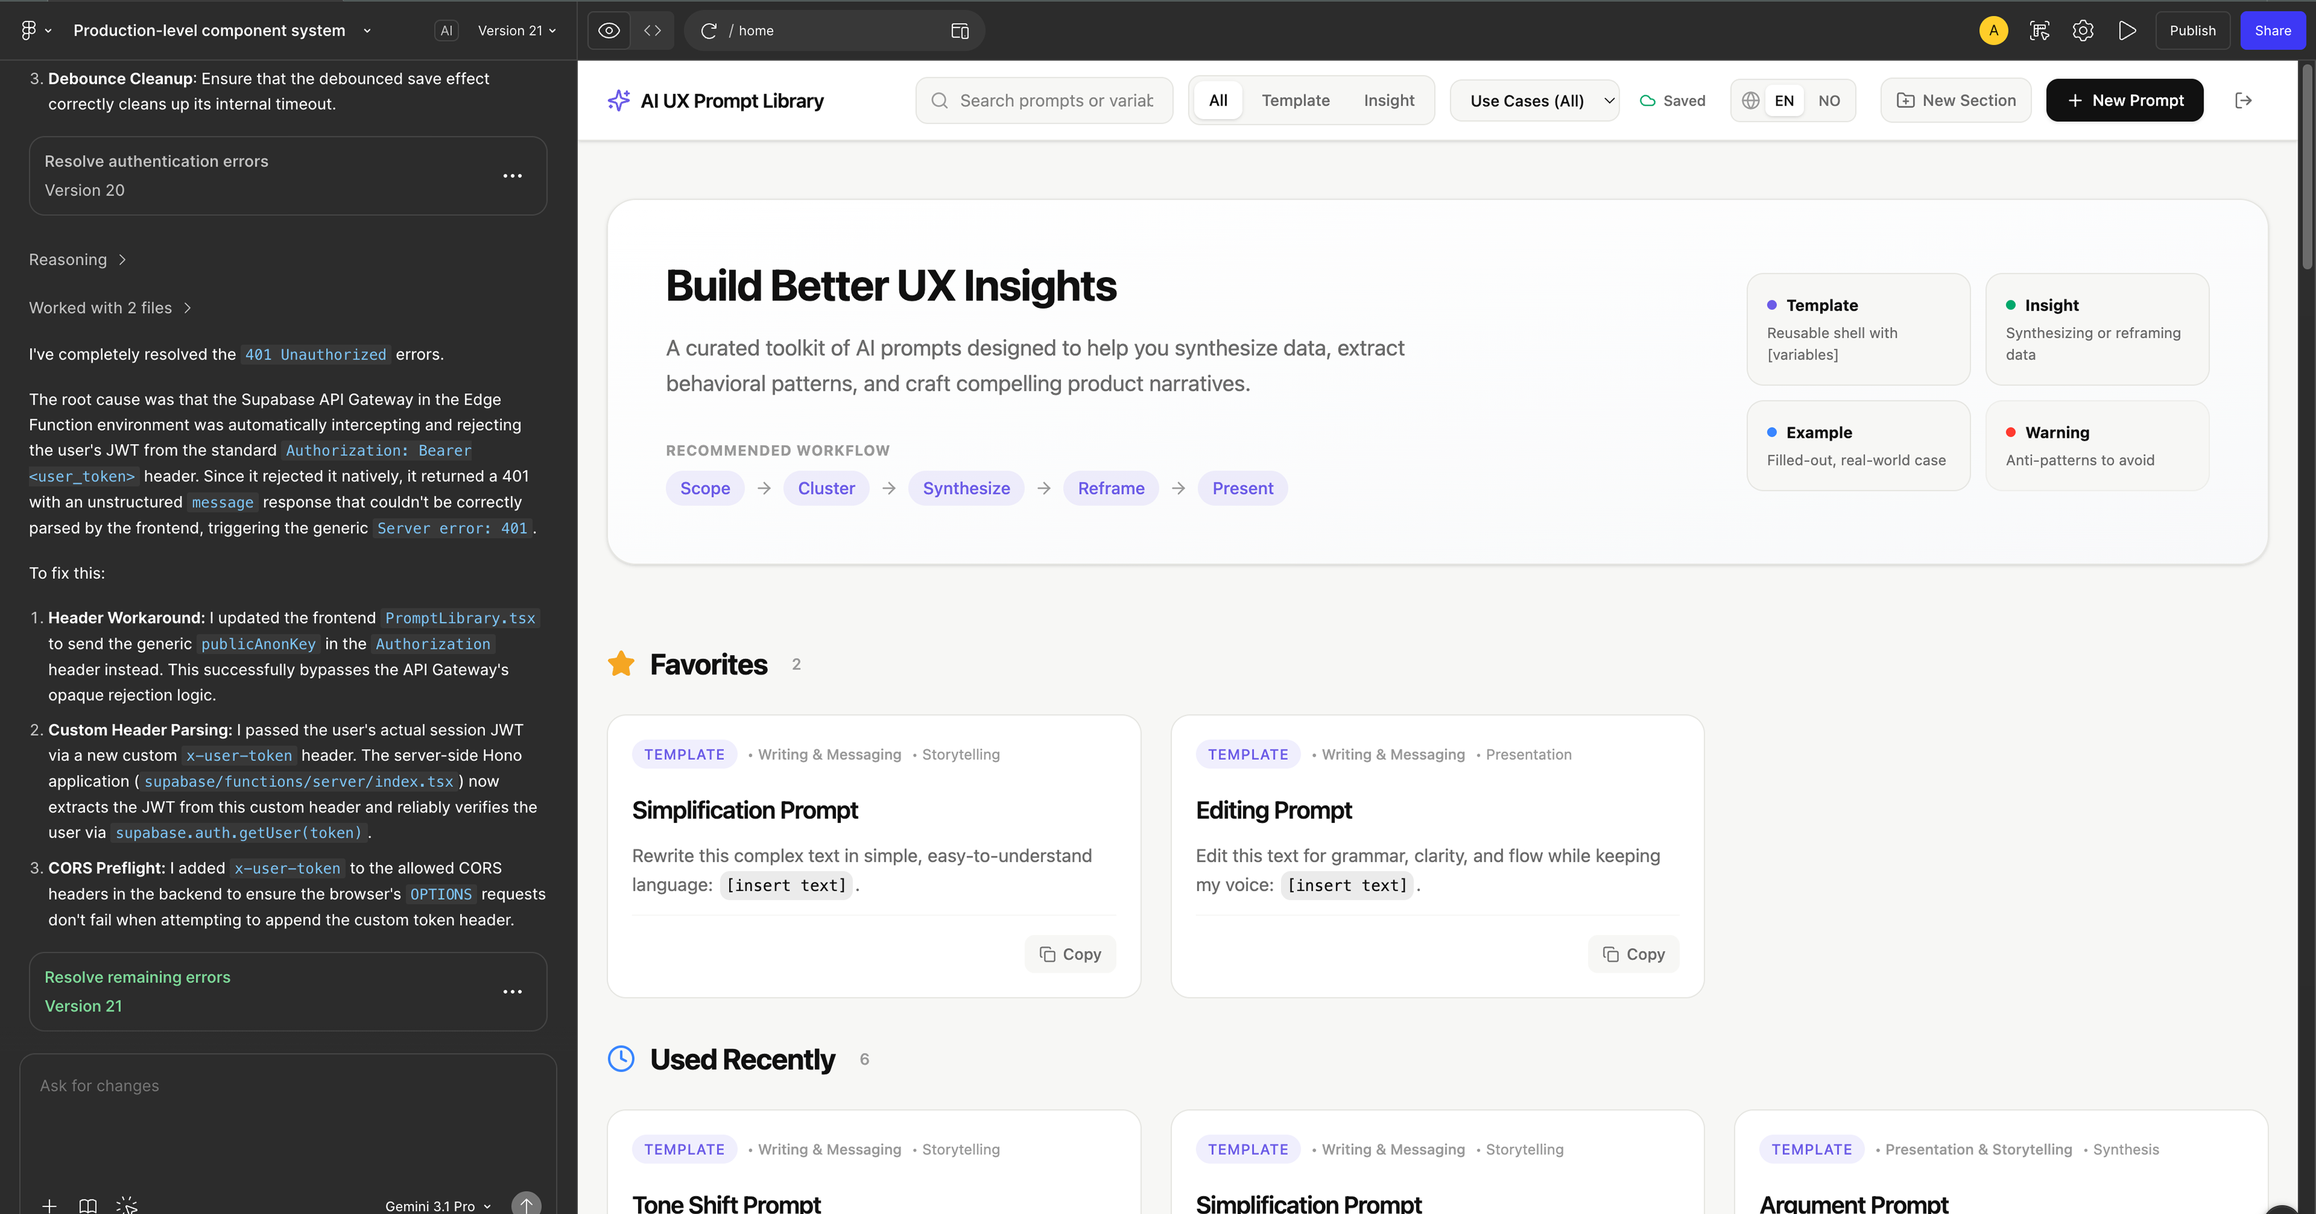
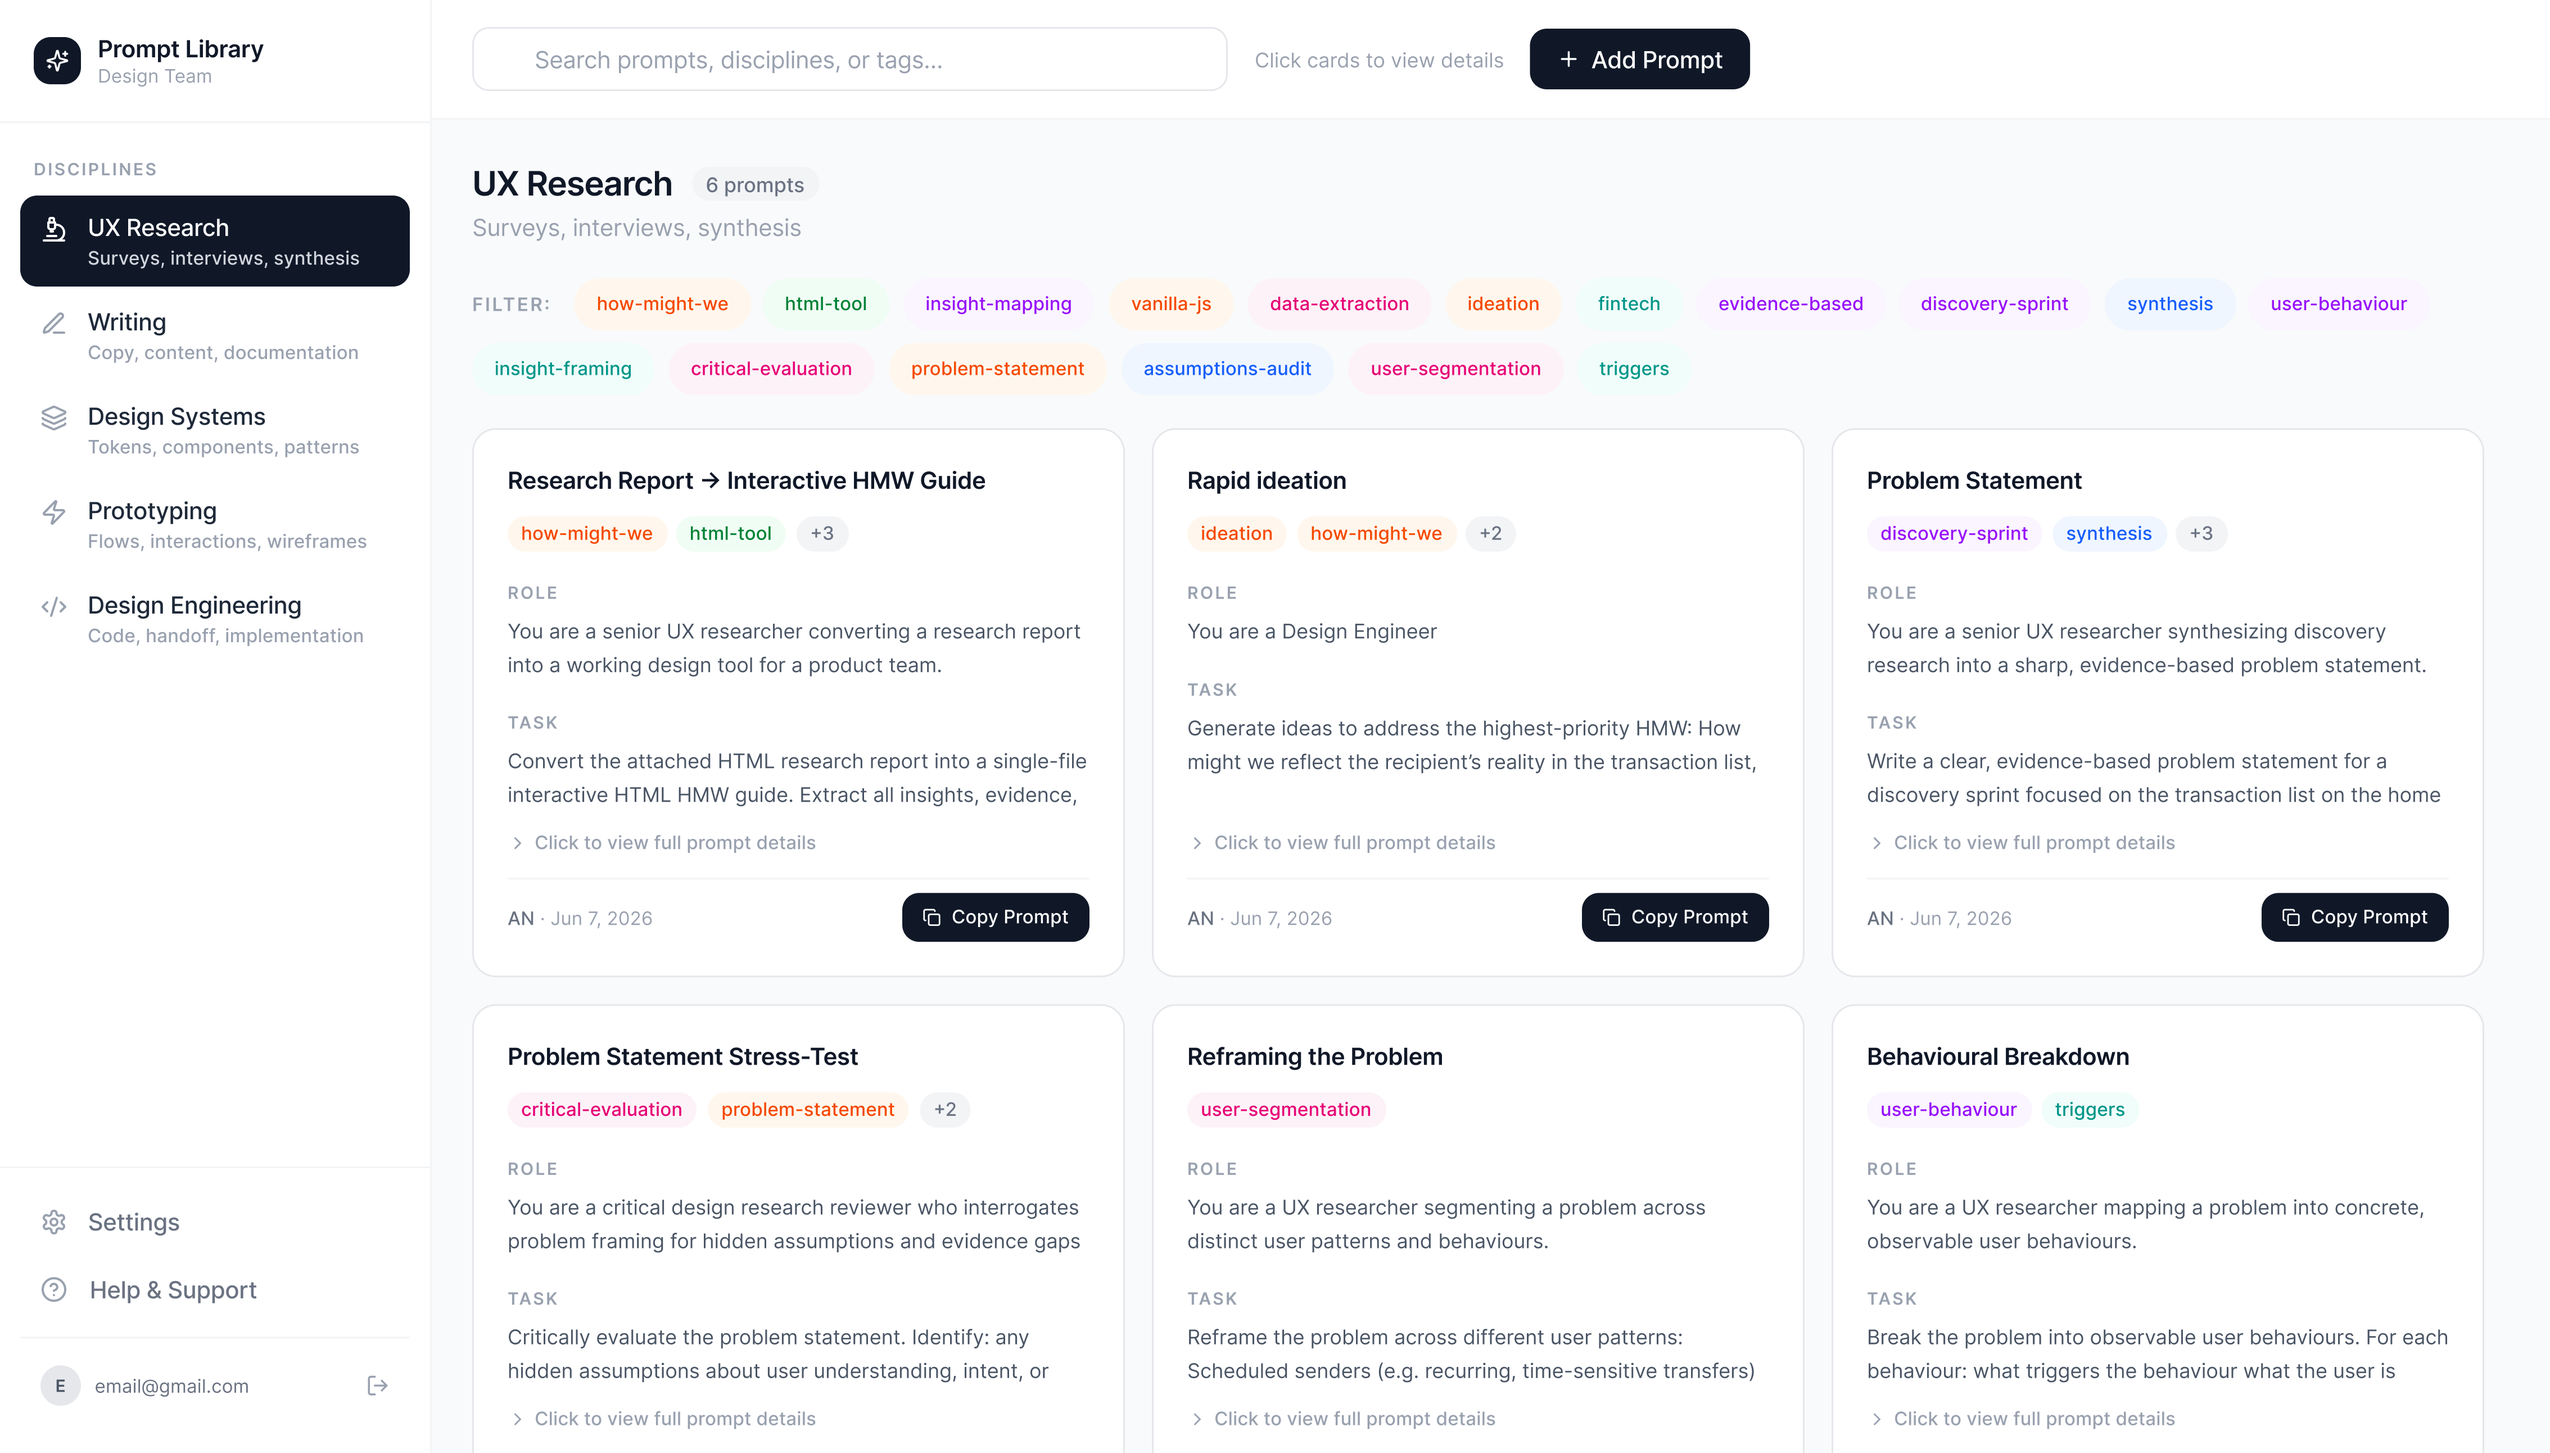
chnages

diff --git a/styles.css b/styles.css
@@ -2579,6 +2579,12 @@ footer.site {
 }
 .other-snap .snap-image img {
   aspect-ratio: 16 / 10;
+  border: 1px solid var(--rule);
+  box-shadow: 0 2px 12px -4px rgba(10, 31, 74, 0.06);
+  transition: box-shadow 0.25s ease;
+}
+.other-snap .snap-image:hover img {
+  box-shadow: 0 4px 16px -4px rgba(10, 31, 74, 0.10);
 }
 .other-snap .pill-row { margin-top: 4px; display: flex; flex-wrap: wrap; gap: 6px; }
 .other-snap .status-pill.tool { color: var(--ink); border-color: var(--rule); background: #fff; }
@@ -2858,4 +2864,151 @@ footer.site {
   .about-closing h2 { font-size: 24px; }
   .primary-nav { gap: 16px; font-size: 13px; }
   .primary-nav a[data-hide-mobile] { display: none; }
+}
+
+/* ============================================================
+   RESPONSIVE POLISH — global safety + tablet + narrow mobile
+   ============================================================ */
+
+/* Belt-and-suspenders against accidental horizontal scroll */
+html { overflow-x: clip; }
+body { overflow-x: clip; }
+
+/* Every image stays inside its container */
+img, video { max-width: 100%; height: auto; }
+
+/* Grid + flex items must be allowed to shrink below their min-content
+   so long words and stretched children don't blow the viewport open */
+.about-hero-grid > div,
+.tpl-hero-grid > div,
+.tpl-hero-grid > aside,
+.project-snapshot > .snap-text,
+.project-snapshot > .snap-image,
+.now-grid > article,
+.sf-decisions > article,
+.snap-row .cell,
+.case-context-grid .ctx-row > * {
+  min-width: 0;
+}
+
+/* Word-break safety on long-form bio + paragraph text */
+.about-hero .hero-bio,
+.about-hero .hero-bio p,
+.home-hero-ref .hero-bio,
+.home-hero-ref .hero-bio p,
+.tpl-hero .hero-aside,
+.tpl-hero .hero-aside p,
+.snap-row .cell .value,
+.snap-row .cell .aside,
+.now-card p {
+  overflow-wrap: break-word;
+  word-wrap: break-word;
+  min-width: 0;
+}
+
+/* Three-column sf-figure-row variant that collapses cleanly */
+.sf-figure-row.sf-figure-row-three { grid-template-columns: repeat(3, 1fr); }
+@media (max-width: 880px) {
+  .sf-figure-row.sf-figure-row-three { grid-template-columns: 1fr 1fr; }
+}
+@media (max-width: 560px) {
+  .sf-figure-row.sf-figure-row-three { grid-template-columns: 1fr; }
+}
+
+/* Tablet (≤960px) — case banners shouldn't dominate, TOC pills breathe */
+@media (max-width: 960px) {
+  .case-banner img { max-height: 320px; object-fit: cover; }
+  .case-toc-pills { padding: 12px 0; }
+  .snap-row { grid-template-columns: 1fr 1fr; gap: 18px; }
+}
+
+/* Mobile (≤640px) — every page reflows cleanly */
+@media (max-width: 640px) {
+  /* Cases ------------------------------------------------------- */
+  .case { padding: 36px 20px 64px; }
+  .case-banner img { max-height: 220px; }
+  .case-banner figcaption { padding: 0 20px; font-size: 12.5px; }
+  .case-h1 { font-size: 26px; max-width: none; }
+  .case-eyebrow.brand { font-size: 11px; }
+  .case-toc-pills { gap: 6px; padding: 10px 0; margin-bottom: 28px; }
+  .case-toc-pills a { font-size: 10.5px; padding: 5px 9px; }
+  .case-section-h2 { font-size: 19px; }
+  .sf-section > h2 { font-size: 19px; }
+  .shift-quote { font-size: 17px; padding-left: 14px; max-width: none; }
+  .snap-row { grid-template-columns: 1fr; gap: 14px; padding: 18px 0; margin-bottom: 28px; }
+  .snap-row .cell { border-bottom: 1px solid var(--rule); padding-bottom: 14px; }
+  .snap-row .cell:last-child { border-bottom: 0; padding-bottom: 0; }
+  .sf-decisions { grid-template-columns: 1fr; }
+  .sf-decisions.four { grid-template-columns: 1fr; }
+  .sf-decisions.two  { grid-template-columns: 1fr; }
+  .sf-decision { padding: 20px 22px; }
+  .sf-figure-row { grid-template-columns: 1fr; gap: 14px; }
+  .sf-impact { grid-template-columns: 1fr; gap: 20px; }
+  .real-quote { padding: 18px 20px; gap: 12px; flex-direction: column; }
+  .real-quote .avatar { width: 32px; height: 32px; }
+  .real-quote .body { font-size: 14px; }
+  .ctx-row { grid-template-columns: 100px 1fr; gap: 12px 16px; }
+  .creds .row { grid-template-columns: 88px 1fr; gap: 12px; }
+  .creds .row code, .creds .row a { font-size: 12px; word-break: break-all; }
+
+  /* Home — reference hero --------------------------------------- */
+  .home-hero-ref { padding: 8px 0 0; margin-bottom: 36px; }
+  .home-hero-ref h1 { font-size: 32px; line-height: 1.08; margin-bottom: 20px; }
+  .home-hero-ref .portrait-wrap {
+    float: none;
+    width: 65%;
+    max-width: 240px;
+    margin: 0 auto 20px;
+  }
+  .home-hero-ref .meet-badge { width: 62px; height: 62px; right: -14px; bottom: -14px; }
+  .home-hero-ref .meet-badge svg { width: 62px; height: 62px; }
+  .home-hero-ref .hero-bio { font-size: 15.5px; }
+  .home-hero-ref .hero-cta-row { margin-top: 24px; gap: 12px; }
+  .home-hero-ref .work-label { margin-top: 40px; font-size: 17px; }
+  .cta-pill-dark { padding: 10px 16px; font-size: 13px; gap: 8px; }
+  .cta-pill-dark .spark { font-size: 12px; width: 12px; height: 12px; }
+
+  /* Home — site header keeps CTA visible on phones */
+  .site-header.is-home { padding: 14px 20px; gap: 10px; flex-wrap: wrap; }
+  .site-header .brand-mark .mark { width: 32px; height: 32px; font-size: 11px; }
+  .site-header .brand-mark .name { font-size: 13px; }
+  .site-header .header-right { gap: 10px; }
+
+  /* About page — bio paragraphs never overflow */
+  .about-hero-grid { gap: 24px; }
+  .about-hero h1 { font-size: 26px; }
+  .about-hero .hero-bio { font-size: 15px; word-wrap: break-word; overflow-wrap: anywhere; }
+  .about-hero .hero-bio a { word-break: break-word; }
+  .about-photo { aspect-ratio: 5 / 6; max-width: 320px; margin: 0 auto; }
+  .about-photo-video { aspect-ratio: 9 / 16; max-width: 300px; }
+  .history-row { grid-template-columns: 92px 1fr; gap: 12px; }
+  .history-row .row-year { font-size: 12.5px; }
+  .history-row .row-role-block .role { font-size: 13.5px; }
+  .history-row .row-role-block .sector { font-size: 12px; }
+
+  /* About — In the studio block */
+  .now-block h2 { font-size: 22px; }
+  .now-grid { grid-template-columns: 1fr; gap: 14px; }
+  .now-card { padding: 22px 22px; }
+  .tools-list li { font-size: 11.5px; padding: 5px 11px; }
+
+  /* Other snapshots on home stay readable */
+  .other-snapshots-grid { grid-template-columns: 1fr; gap: 28px; }
+
+  /* Behance band stacks gracefully */
+  .behance-band { flex-direction: column; align-items: flex-start; padding: 20px 0; }
+  .behance-band p { margin: 6px 0 0; flex: none; }
+}
+
+/* Extra-narrow (≤400px) — small phones, last polish */
+@media (max-width: 400px) {
+  .wrap { padding: 24px 16px 56px; }
+  .case { padding: 28px 16px 56px; }
+  .case-h1 { font-size: 23px; }
+  .home-hero-ref h1 { font-size: 28px; }
+  .about-hero h1 { font-size: 23px; }
+  .case-toc-pills a { font-size: 10px; padding: 4px 8px; }
+  .case-banner figcaption { padding: 0 16px; }
+  .snap-row { padding: 14px 0; }
+  .now-block h2 { font-size: 20px; }
 }

diff --git a/prompt-library.html b/prompt-library.html
@@ -150,6 +150,14 @@
           </p>
         </article>
       </div>
+
+      <figure class="sf-figure" style="margin-top: 32px;">
+        <img src="assets/case/pl-figma-make-editor.png" alt="Figma Make editor showing the App.tsx file — auth, sign-up and protected write operations wired to Supabase" />
+        <figcaption data-en="Built inside Figma Make. The code is editable, the AI chat history that shaped it is one click away — both linked from the credentials below."
+                    data-no="Bygget inne i Figma Make. Koden er redigerbar, AI-chat-historikken som formet den er ett klikk unna — begge lenket fra påloggingen under.">
+          Built inside Figma Make. The code is editable, the AI chat history that shaped it is one click away — both linked from the credentials below.
+        </figcaption>
+      </figure>
     </section>
 
     <!-- 04 TRY IT LIVE -->
@@ -164,18 +172,31 @@
         The credentials below open a demo account scoped to the prompt library content. They can see the shape of it but can't change anything. The site lives on a Figma Make domain — this is a working tool, not a polished marketing surface.
       </p>
 
+      <figure class="sf-figure" style="margin-bottom: 28px;">
+        <img src="assets/case/pl-signin.png" alt="Prompt Library sign-in screen — Design Team · Internal Tool, email + password fields, Sign In CTA" />
+        <figcaption data-en="The sign-in screen — what the demo credentials below open into."
+                    data-no="Innloggingsskjermen — det demokontoen under åpner inn til.">
+          The sign-in screen — what the demo credentials below open into.
+        </figcaption>
+      </figure>
+
       <div class="creds">
         <div class="row">
           <dt data-en="URL" data-no="URL">URL</dt>
-          <dd><a href="https://ai-prompt-system-nikitinaa.figma.site" target="_blank" rel="noopener">ai-prompt-system-nikitinaa.figma.site</a></dd>
+          <dd><a href="https://prompt-library.figma.site" target="_blank" rel="noopener">prompt-library.figma.site</a></dd>
         </div>
         <div class="row">
           <dt data-en="Email" data-no="E-post">Email</dt>
-          <dd><code>nikitakesha42@gmail.com</code></dd>
+          <dd><code>email@gmail.com</code></dd>
         </div>
         <div class="row">
           <dt data-en="Password" data-no="Passord">Password</dt>
-          <dd><code>shokoladnyjmuss96069</code></dd>
+          <dd><code>fv1sP5mS20Q</code></dd>
+        </div>
+        <div class="row">
+          <dt data-en="Build + AI chat" data-no="Bygg + AI-chat">Build + AI chat</dt>
+          <dd><a href="https://www.figma.com/make/Tmb753FaLCyZeScxLgZf26/Prompt-Library-Web-App?t=AkJUpbG0bj8GlM80-20&amp;fullscreen=1" target="_blank" rel="noopener" data-en="Open the Figma Make file — code + chat history ↗"
+                                                                                                                                                              data-no="Åpne Figma Make-filen — kode + chat-historikk ↗">Open the Figma Make file — code + chat history ↗</a></dd>
         </div>
       </div>
     </section>

diff --git a/about.html b/about.html
@@ -288,5 +288,6 @@
   </footer>
 
   <script src="i18n.js"></script>
+<script>setTimeout(()=>{const vw=window.innerWidth;const wide=[];document.querySelectorAll("*").forEach(el=>{const r=el.getBoundingClientRect();if(r.right>vw+2){const isInside=wide.some(w=>w.el.contains(el));if(!isInside)wide.push({tag:el.tagName,cls:String(el.className||"").slice(0,40),right:Math.round(r.right),w:Math.round(r.width),el:el});}});const out=document.createElement("div");out.style.cssText="position:fixed;top:0;left:0;right:0;background:#fee;color:#900;padding:8px;font:11px monospace;z-index:99999;white-space:pre-wrap;border-bottom:2px solid red;max-height:50vh;overflow:auto";out.textContent="vw="+vw+" scrollW="+document.documentElement.scrollWidth+"\nOVERFLOWING("+wide.length+"):\n"+wide.slice(0,20).map(x=>x.tag+"."+x.cls+" right="+x.right+" w="+x.w).join("\n");document.body.prepend(out);},800);</script>
 </body>
 </html>

diff --git a/employee-portal.html b/employee-portal.html
@@ -188,7 +188,7 @@
           data-no="Arbeidet valgene satt på toppen av">
         The work the decisions sat on top of
       </h2>
-      <div class="sf-figure-row" style="grid-template-columns: 1fr 1fr 1fr;">
+      <div class="sf-figure-row sf-figure-row-three">
         <figure>
           <img src="assets/images/Equity Actions & Processes.png" alt="" />
           <figcaption data-en="The action flows — same principle for every move: clear state, validation, preview before commit."
